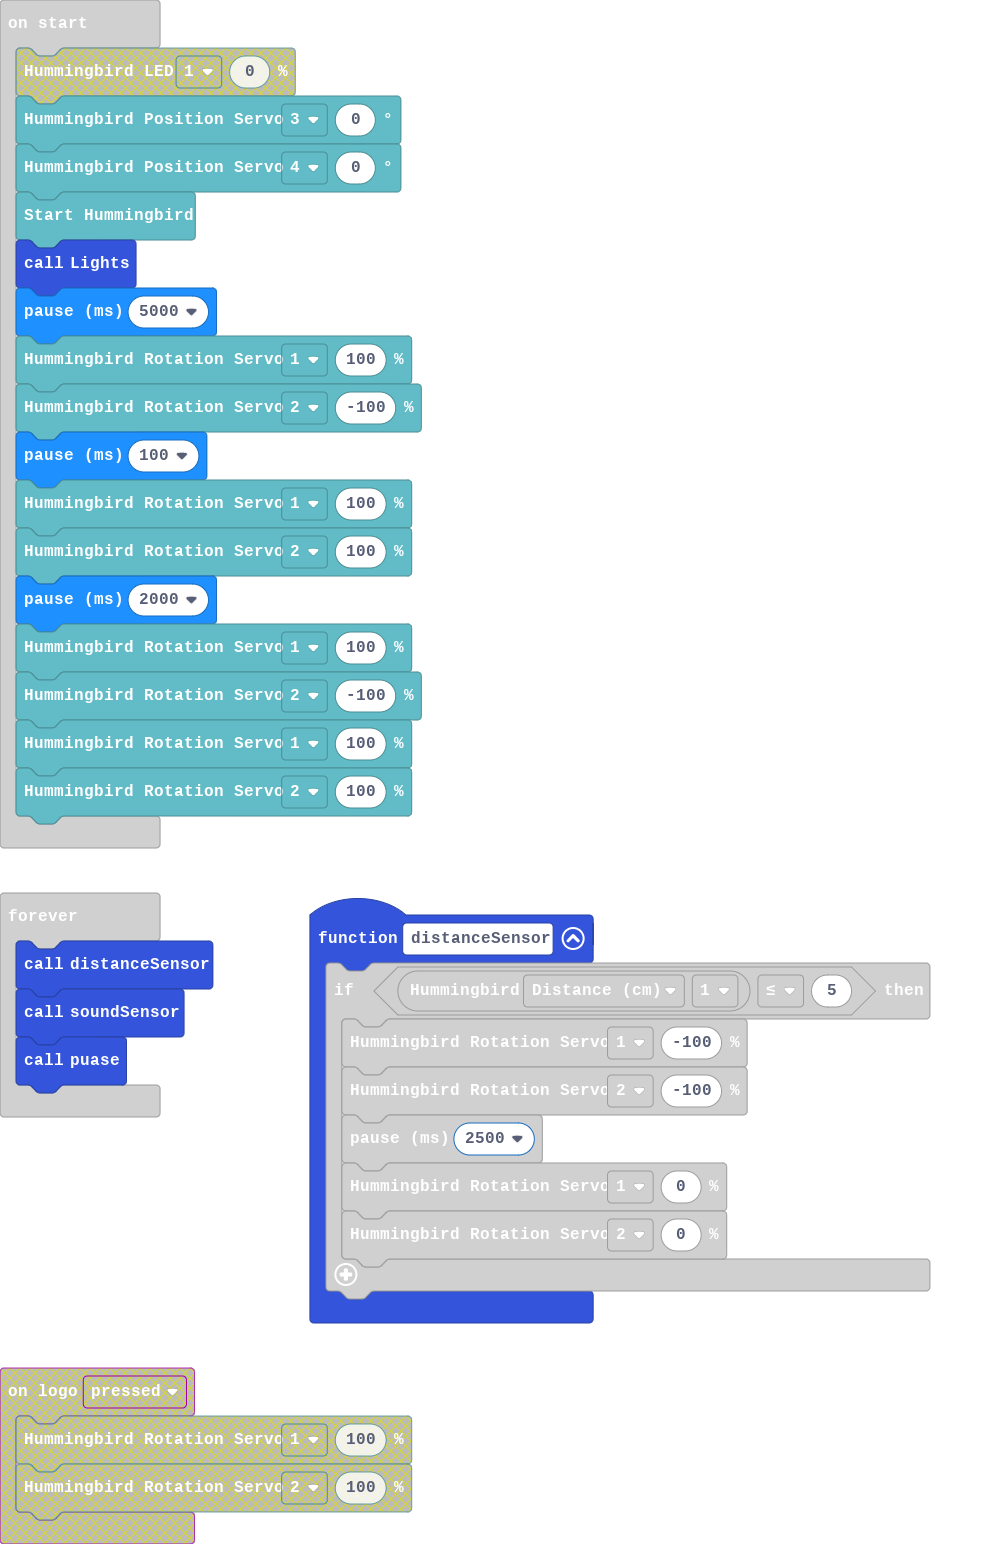
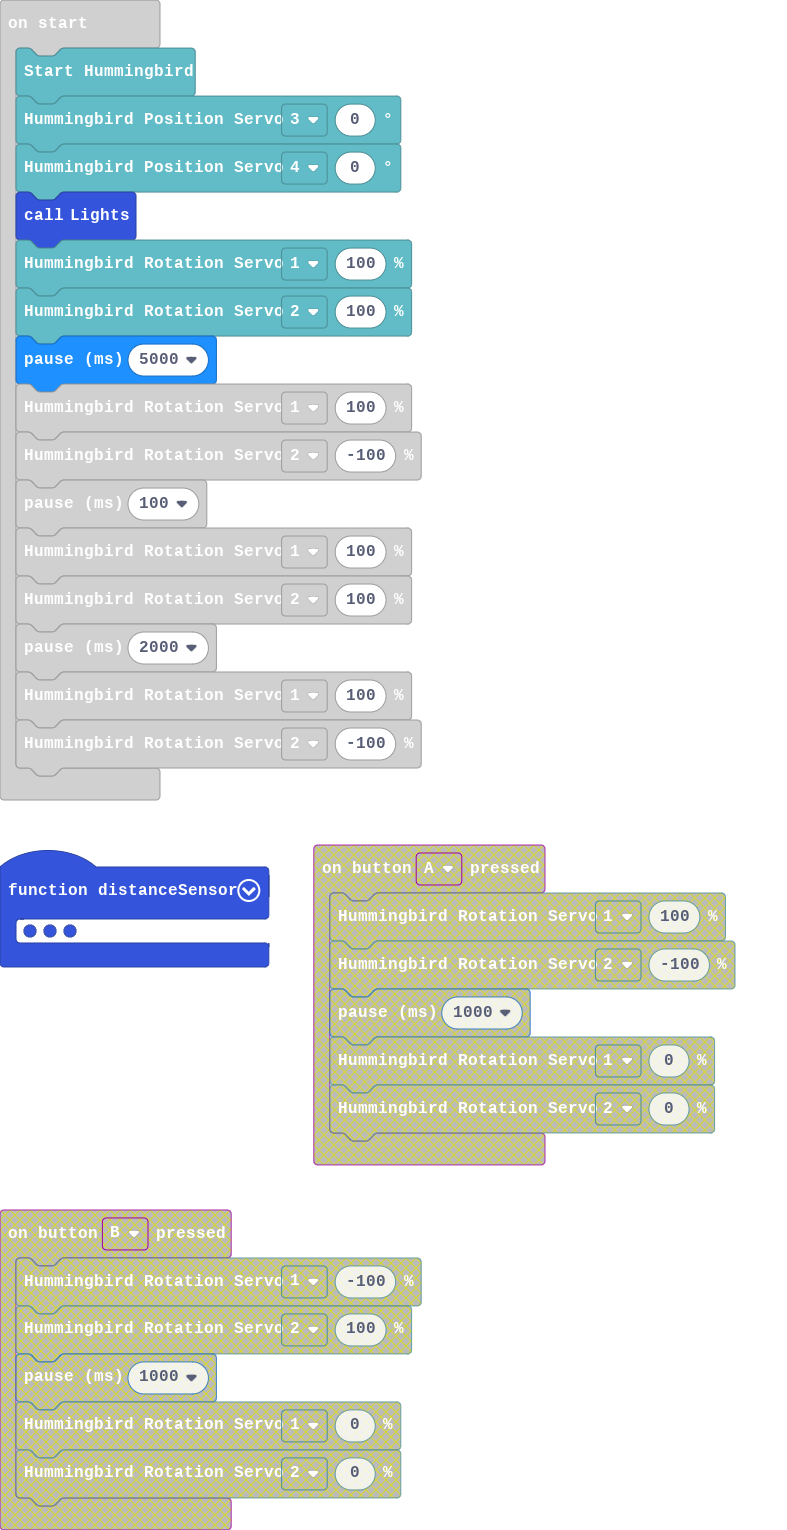
Update main.blocks, main.ts

diff --git a/main.ts b/main.ts
@@ -1,10 +1,3 @@
-input.onButtonPressed(Button.A, function () {
-    hummingbird.setRotationServo(FourPort.One, 100)
-    hummingbird.setRotationServo(FourPort.Two, -100)
-    basic.pause(1000)
-    hummingbird.setRotationServo(FourPort.One, 0)
-    hummingbird.setRotationServo(FourPort.Two, 0)
-})
 function Lights () {
     hummingbird.setTriLED(
     TwoPort.One,
@@ -70,13 +63,6 @@ function robotScreen () {
         . # # # .
         `)
 }
-input.onButtonPressed(Button.B, function () {
-    hummingbird.setRotationServo(FourPort.One, -100)
-    hummingbird.setRotationServo(FourPort.Two, 100)
-    basic.pause(1000)
-    hummingbird.setRotationServo(FourPort.One, 0)
-    hummingbird.setRotationServo(FourPort.Two, 0)
-})
 function puase () {
     hummingbird.setTriLED(
     TwoPort.One,
@@ -111,12 +97,12 @@ function distanceSensor () {
         hummingbird.setRotationServo(FourPort.Two, 0)
     }
 }
-hummingbird.setRotationServo(FourPort.One, 100)
-hummingbird.setRotationServo(FourPort.Two, 100)
+hummingbird.startHummingbird()
 hummingbird.setPositionServo(FourPort.Three, 0)
 hummingbird.setPositionServo(FourPort.Four, 0)
-hummingbird.startHummingbird()
 Lights()
+hummingbird.setRotationServo(FourPort.One, 100)
+hummingbird.setRotationServo(FourPort.Two, 100)
 basic.pause(5000)
 hummingbird.setRotationServo(FourPort.One, 100)
 hummingbird.setRotationServo(FourPort.Two, -100)
